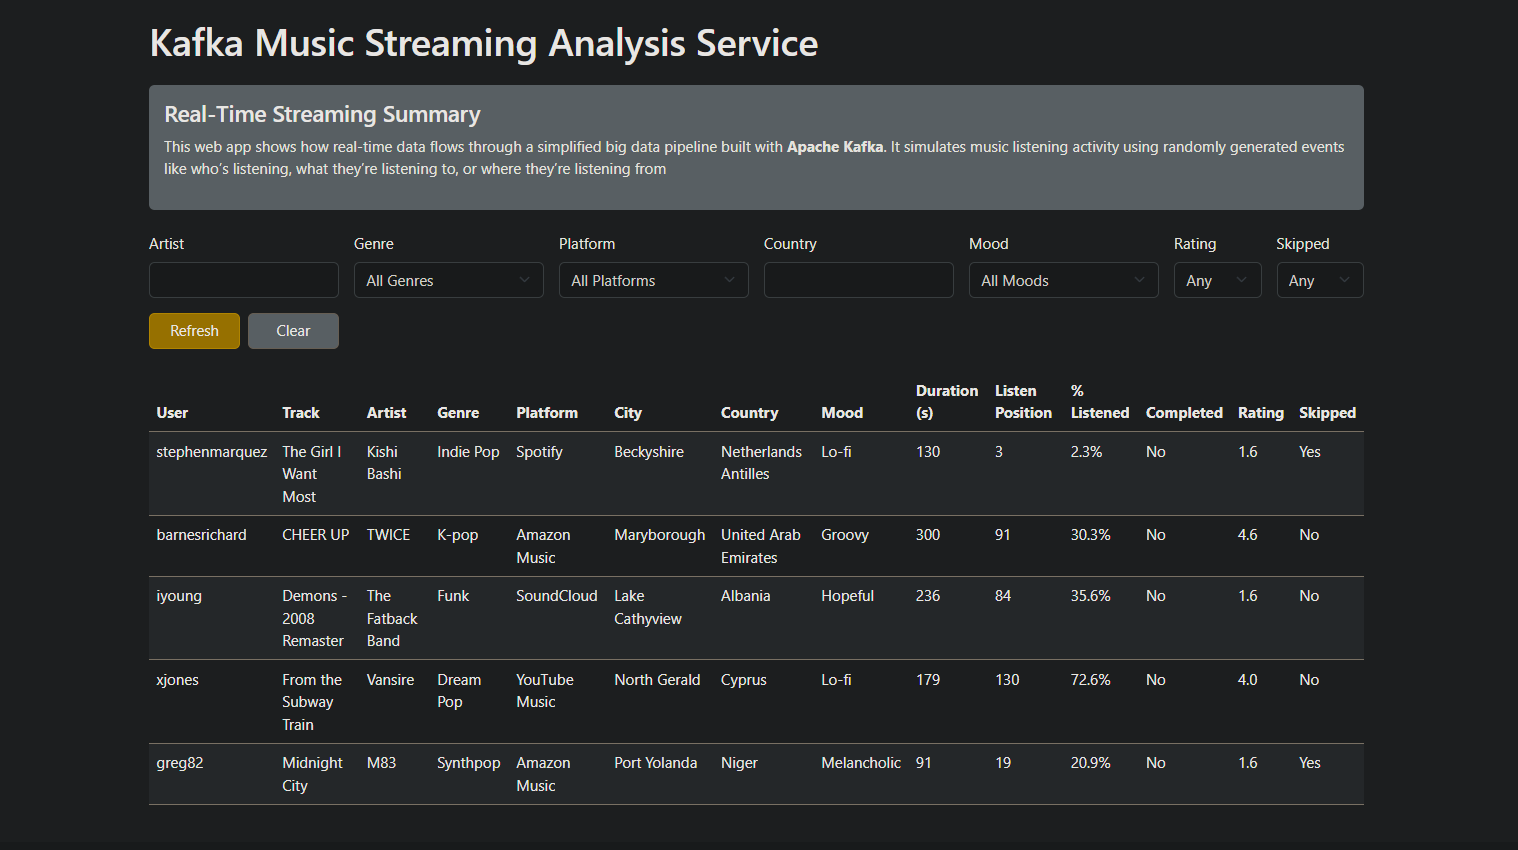
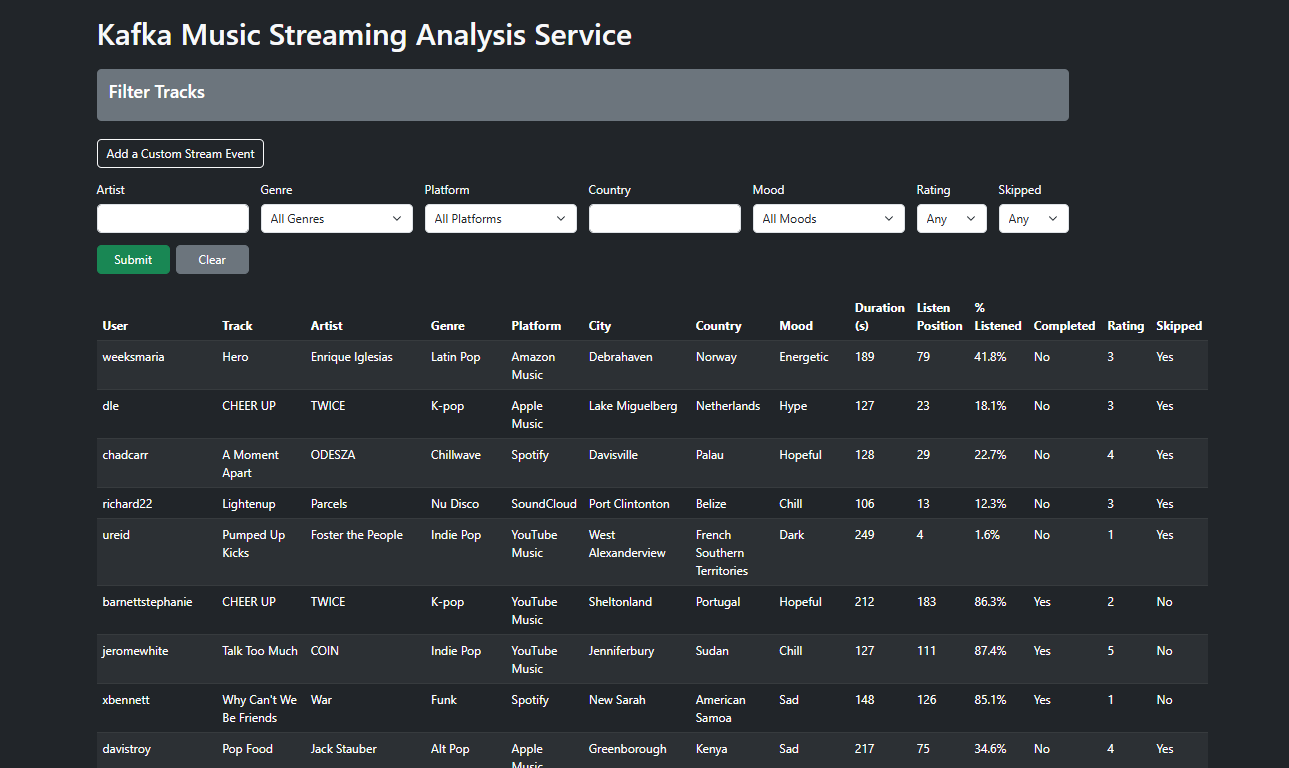
update pics

diff --git a/README.md b/README.md
@@ -231,6 +231,14 @@ This is how the real-time data appears when viewed in the Flask web app:
 
 ![Live Dashboard](pictures/Homepage_V1.png)
 
+Users can fill out the **"Add A Custom Stream Event** form to add their own data:
+
+![User Form](pictures/formfill.png)
+
+Once submitted, users will see their event added to the table:
+
+![SuccessAdd](pictures/successadd.png)
+
 ---
 
 ## Future Considerations
